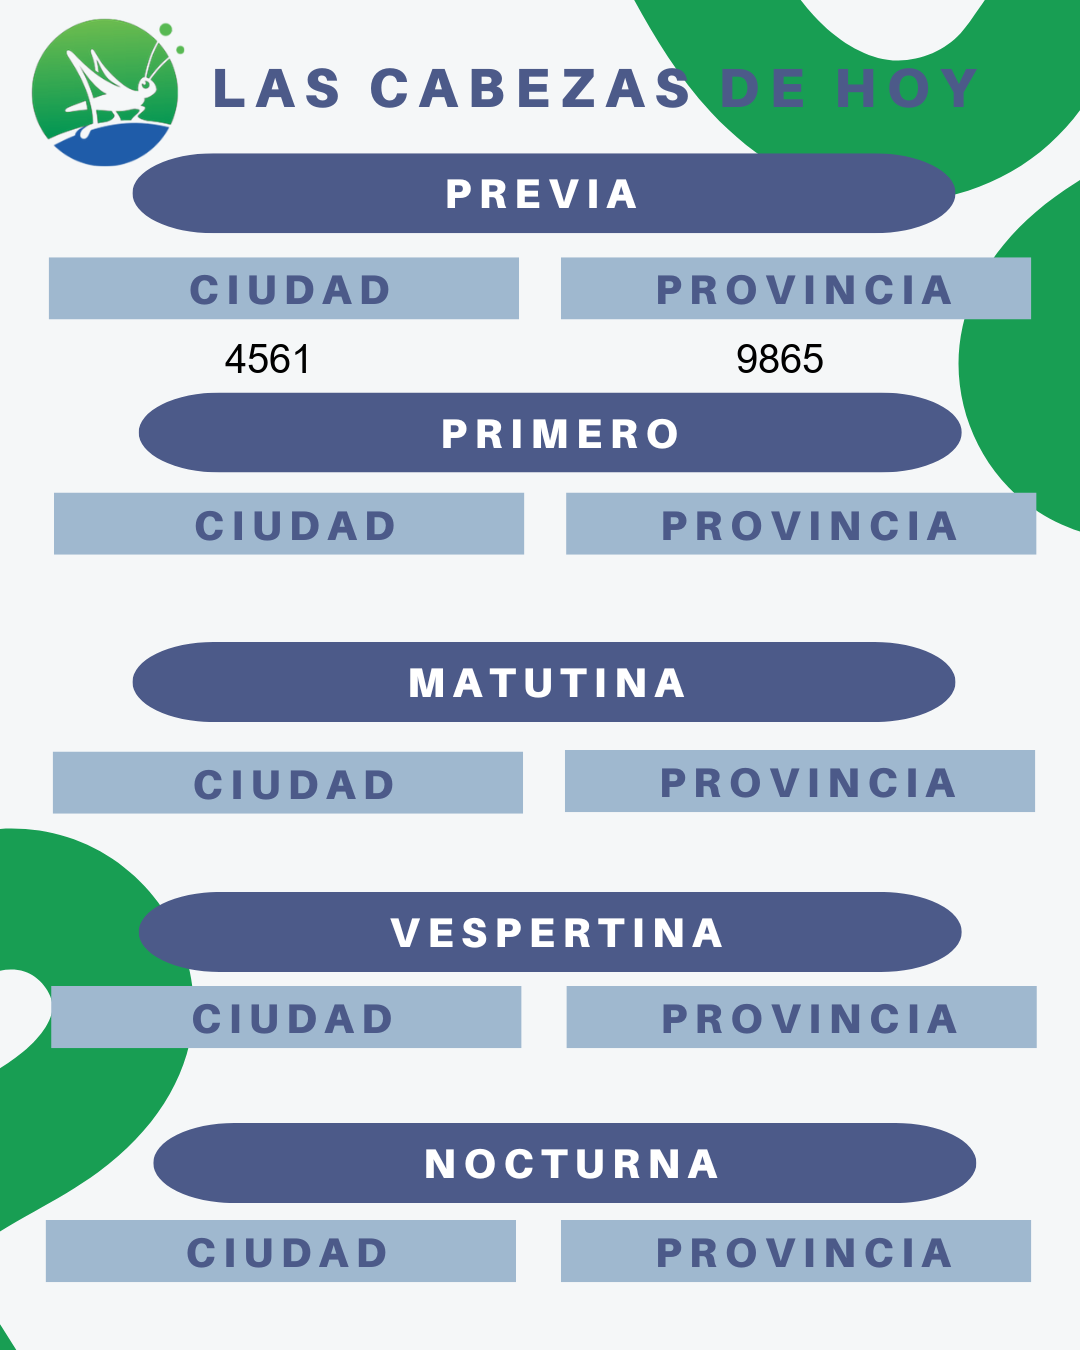
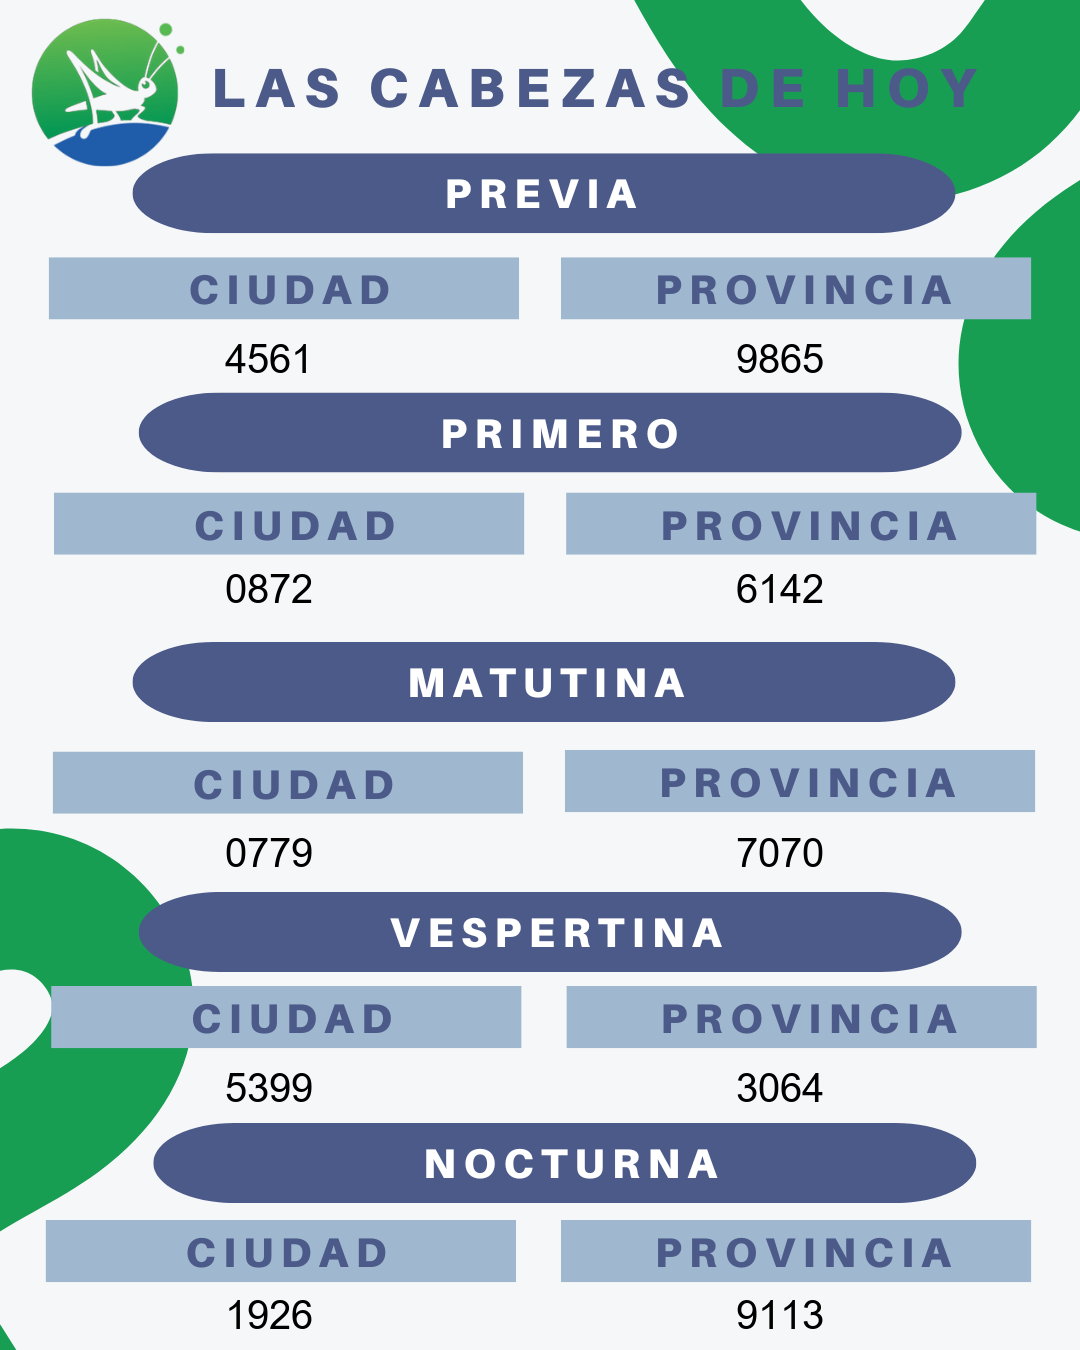
funciona.falta agregar fecha

diff --git a/generate_schedule_results.py b/generate_schedule_results.py
@@ -4,60 +4,40 @@ import time
 from selenium import webdriver
 from selenium.webdriver.chrome.service import Service
 from selenium.webdriver.common.by import By
+from webdriver_manager.chrome import ChromeDriverManager
 from PIL import Image, ImageDraw, ImageFont
 
 
 def crear_driver_headless():
-    # Posibles ubicaciones de chromedriver instalado por Aptfile o en el PATH
-    candidates_driver = [
-        shutil.which("chromedriver"),
-        "/usr/bin/chromedriver",
-        "/usr/lib/chromium-browser/chromedriver",
-        "/usr/lib/chromium/chromedriver"
-    ]
-    chromedriver_path = next((p for p in candidates_driver if p and os.path.exists(p)), None)
-
-    # Posibles ubicaciones de Chromium
-    candidates_chrome = [
-        shutil.which("chromium-browser"),
-        shutil.which("chromium"),
-        "/usr/bin/chromium-browser",
-        "/usr/bin/chromium"
-    ]
-    chromium_path = next((p for p in candidates_chrome if p and os.path.exists(p)), None)
-
-    if not chromedriver_path:
-        raise FileNotFoundError(
-            f"chromedriver no encontrado. Busqué en: {', '.join(candidates_driver)}"
-        )
-    if not chromium_path:
-        raise FileNotFoundError(
-            f"Chromium no encontrado. Busqué en: {', '.join(candidates_chrome)}"
-        )
-
+    # Opciones para Chrome en modo headless
     options = webdriver.ChromeOptions()
-    options.binary_location = chromium_path
     options.add_argument("--headless")
     options.add_argument("--no-sandbox")
     options.add_argument("--disable-dev-shm-usage")
     options.add_argument("--disable-gpu")
     options.add_argument("--window-size=1920,1080")
 
-    service = Service(executable_path=chromedriver_path)
+    # Si querés especificar un binario diferente (opcional):
+    chromium_path = os.getenv("CHROMIUM_PATH")
+    if chromium_path and os.path.exists(chromium_path):
+        options.binary_location = chromium_path
+
+    # Usamos webdriver_manager para obtener chromedriver adecuado
+    service = Service(ChromeDriverManager().install())
     return webdriver.Chrome(service=service, options=options)
 
 
 def generar_resultados_horario(selected_horario=None):
-    # 1. Iniciar driver usando configuración headless
+    # 1. Iniciar driver en modo headless
     driver = crear_driver_headless()
 
     # 2. Scraping
     driver.get('https://quesalio.com')
     time.sleep(5)
 
-    resultados_por_horario_provincia = {}
+    resultados = {}
     horarios_esperados = ["10:15", "12:00", "15:00", "18:00", "21:00"]
-    provincias_deseadas = ["Ciudad", "Provincia", "Santa Fe", "Córdoba", "Entre Ríos"]
+    provincias = ["Ciudad", "Provincia", "Santa Fe", "Córdoba", "Entre Ríos"]
 
     try:
         fila = driver.find_element(By.XPATH, '//div[@class="x mar3"]')
@@ -65,7 +45,8 @@ def generar_resultados_horario(selected_horario=None):
         horarios = [h.text.strip() for h in elementos if h.text.strip() in horarios_esperados]
 
         bloques = driver.find_elements(
-            By.XPATH, '//div[@class="col s12 agui"]/div[@class="col s12 sabatini"]'
+            By.XPATH,
+            '//div[@class="col s12 agui"]/div[@class="col s12 sabatini"]'
         )
         for idx, hora in enumerate(horarios):
             datos_h = {}
@@ -74,32 +55,34 @@ def generar_resultados_horario(selected_horario=None):
                     prov = bloque.find_element(
                         By.XPATH, './/div[contains(@class,"kk9")]/h2'
                     ).text.strip()
-                    if prov in provincias_deseadas:
-                        nums = bloque.find_elements(By.CLASS_NAME, 'c')
-                        if idx < len(nums) and nums[idx].text.strip().isdigit():
-                            datos_h[prov] = nums[idx].text.strip()
-                except Exception:
+                except:
                     continue
+                if prov in provincias:
+                    nums = bloque.find_elements(By.CLASS_NAME, 'c')
+                    if idx < len(nums):
+                        texto = nums[idx].text.strip()
+                        if texto.isdigit():
+                            datos_h[prov] = texto
             if datos_h:
-                resultados_por_horario_provincia[hora] = datos_h
+                resultados[hora] = datos_h
     finally:
         driver.quit()
 
-    # 3. Mapear nombres de horario a título
-    mostrar = {
+    # 3. Traducir horarios a títulos
+    mapping = {
         "10:15": "LA PREVIA",
         "12:00": "EL PRIMERO",
         "15:00": "MATUTINA",
         "18:00": "VESPERTINA",
         "21:00": "NOCTURNA"
     }
-    formateados = {mostrar[h]: d for h, d in resultados_por_horario_provincia.items()}
+    formateados = {mapping[h]: d for h, d in resultados.items()}
 
-    # 4. Filtrar solo el elegido (si se pasó)
+    # 4. Filtrar horario específico si se indicó
     if selected_horario:
         formateados = {k: v for k, v in formateados.items() if k == selected_horario}
 
-    # 5. Fuente y coordenadas
+    # 5. Carga de fuentes y coordenadas
     try:
         font = ImageFont.truetype("Pragmatica-Condensed-Bold.ttf", 100)
     except IOError:
@@ -126,7 +109,7 @@ def generar_resultados_horario(selected_horario=None):
         draw = ImageDraw.Draw(img)
         draw.text((292, 506), titulo, fill="white", font=font)
         for prov, num in datos.items():
-            x, y = coords[prov]
+            x, y = coords.get(prov, (0, 0))
             draw.text((x, y), num, fill="white", font=font)
 
         img.save(salida)

diff --git a/generate_daily_results.py b/generate_daily_results.py
@@ -1,28 +1,39 @@
 import os
+import shutil
 from selenium import webdriver
 from selenium.webdriver.chrome.service import Service
 from selenium.webdriver.common.by import By
 from selenium.webdriver.support.ui import WebDriverWait
 from selenium.webdriver.support import expected_conditions as EC
+from webdriver_manager.chrome import ChromeDriverManager
 from PIL import Image, ImageDraw, ImageFont
 
-# --- Coords---
+# --- Coordenadas ---
 coords = {
-    "Previa":    {"Ciudad": (225, 336),   "Provincia": (736, 336)},
-    "Primero":   {"Ciudad": (225, 566),   "Provincia": (736, 566)},
-    "Matutina":  {"Ciudad": (225, 830),   "Provincia": (736, 830)},
-    "Vespertina":{"Ciudad": (225, 1065),  "Provincia": (736, 1065)},
-    "Nocturna":  {"Ciudad": (225, 1292),  "Provincia": (736, 1292)}
+    "Previa":     {"Ciudad": (225, 336),   "Provincia": (736, 336)},
+    "Primero":    {"Ciudad": (225, 566),   "Provincia": (736, 566)},
+    "Matutina":   {"Ciudad": (225, 830),   "Provincia": (736, 830)},
+    "Vespertina": {"Ciudad": (225, 1065),  "Provincia": (736, 1065)},
+    "Nocturna":   {"Ciudad": (225, 1292),  "Provincia": (736, 1292)}
 }
 
-def generar_resultados():
-    # --- Inicializar Selenium en modo headless ---
-    service = Service('./chromedriver.exe')
+def crear_driver():
     options = webdriver.ChromeOptions()
-    options.binary_location = "/usr/bin/chromium"
-    options.add_argument('--headless')
-    options.add_argument('--window-size=1920,1080')
-    driver = webdriver.Chrome(service=service, options=options)
+    options.add_argument("--headless")
+    options.add_argument("--no-sandbox")
+    options.add_argument("--disable-dev-shm-usage")
+    options.add_argument("--disable-gpu")
+    options.add_argument("--window-size=1920,1080")
+
+    chromium_path = os.getenv("CHROMIUM_PATH")
+    if chromium_path and os.path.exists(chromium_path):
+        options.binary_location = chromium_path
+
+    service = Service(ChromeDriverManager().install())
+    return webdriver.Chrome(service=service, options=options)
+
+def generar_resultados():
+    driver = crear_driver()
 
     # --- Ir a la página y esperar ---
     driver.get('https://quesalio.com')
@@ -34,7 +45,6 @@ def generar_resultados():
     rows = driver.find_elements(By.CLASS_NAME, 'sabatini')
     print(f"DEBUG: encontré {len(rows)} filas .sabatini")
 
-    # --- Buscar las filas de Ciudad y Provincia ---
     city_row = None
     prov_row = None
     for row in rows:
@@ -74,13 +84,13 @@ def generar_resultados():
     except IOError:
         font = ImageFont.load_default()
 
-    # --- Dibujar números en cada zona ---
     for zona, (city_num, prov_num) in zip(zonas, datos_numeros):
         draw.text(coords[zona]["Ciudad"], city_num, fill="black", font=font)
         draw.text(coords[zona]["Provincia"], prov_num, fill="black", font=font)
 
     # --- Guardar en static/ para Flask ---
     output_name = "resultado_dia.png"
+    os.makedirs("static", exist_ok=True)
     img.save(output_name)
     dest = os.path.join("static", output_name)
     if os.path.exists(dest):
